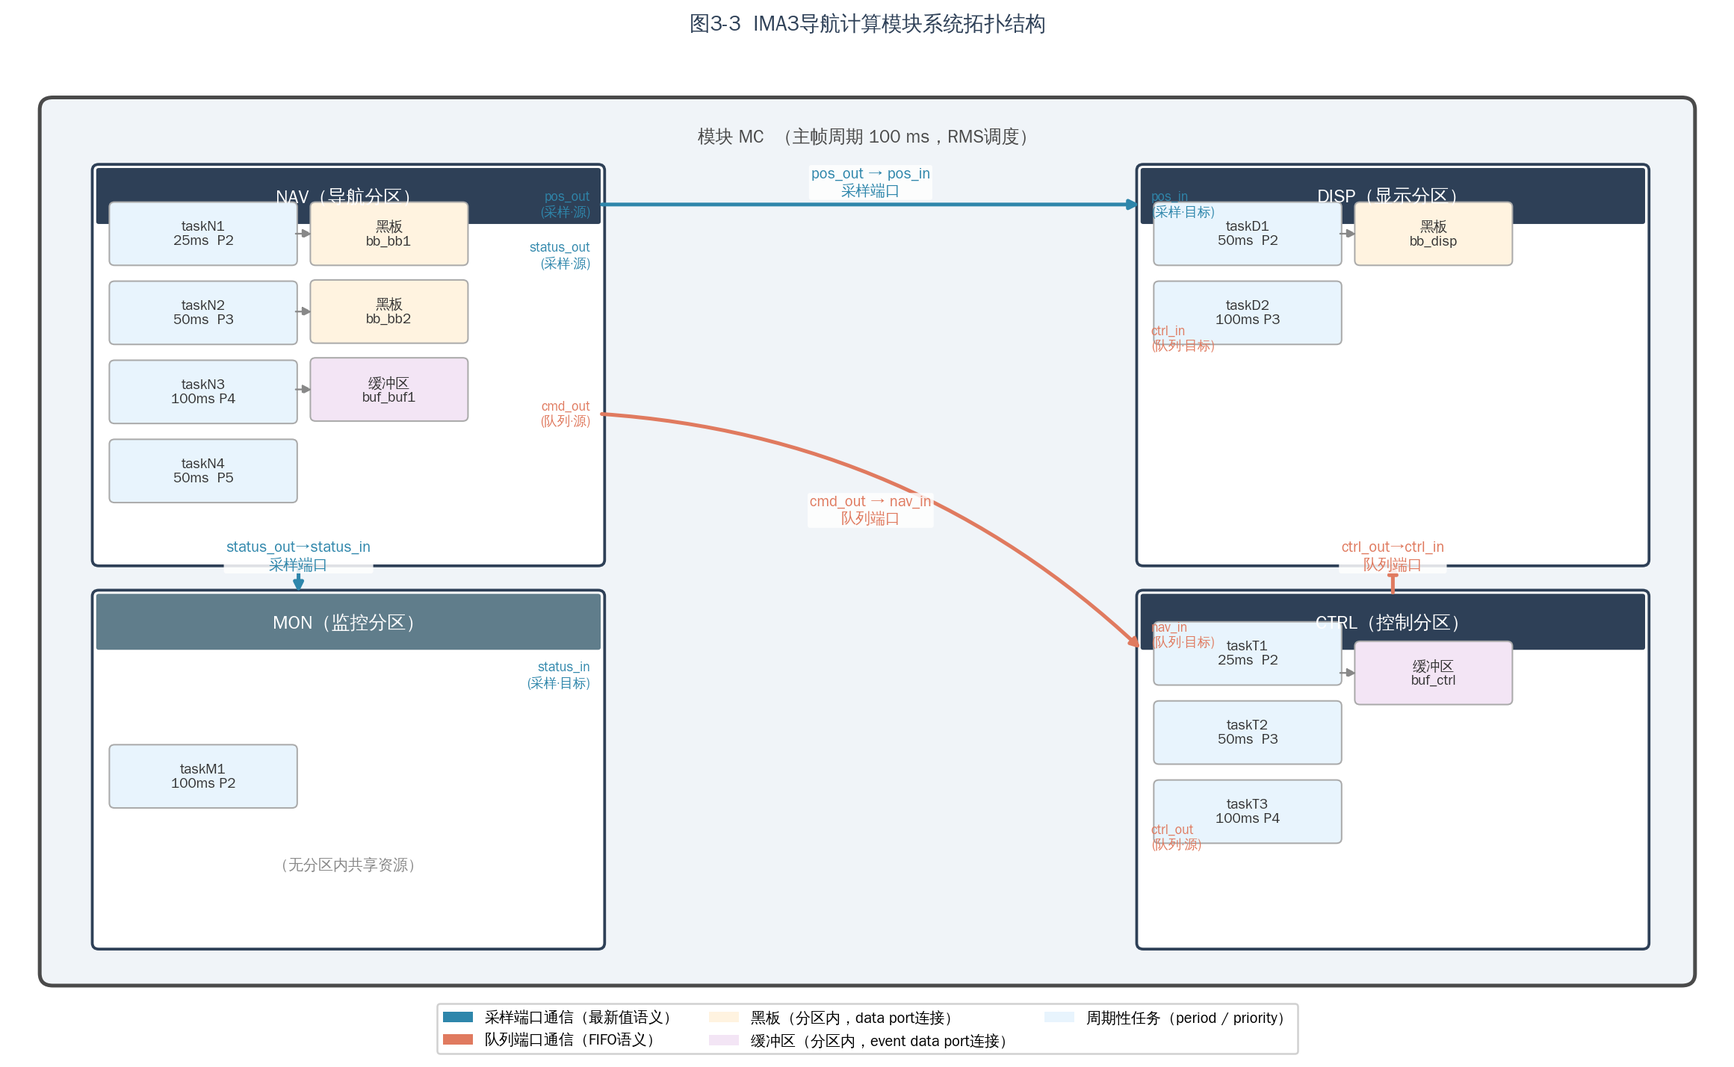
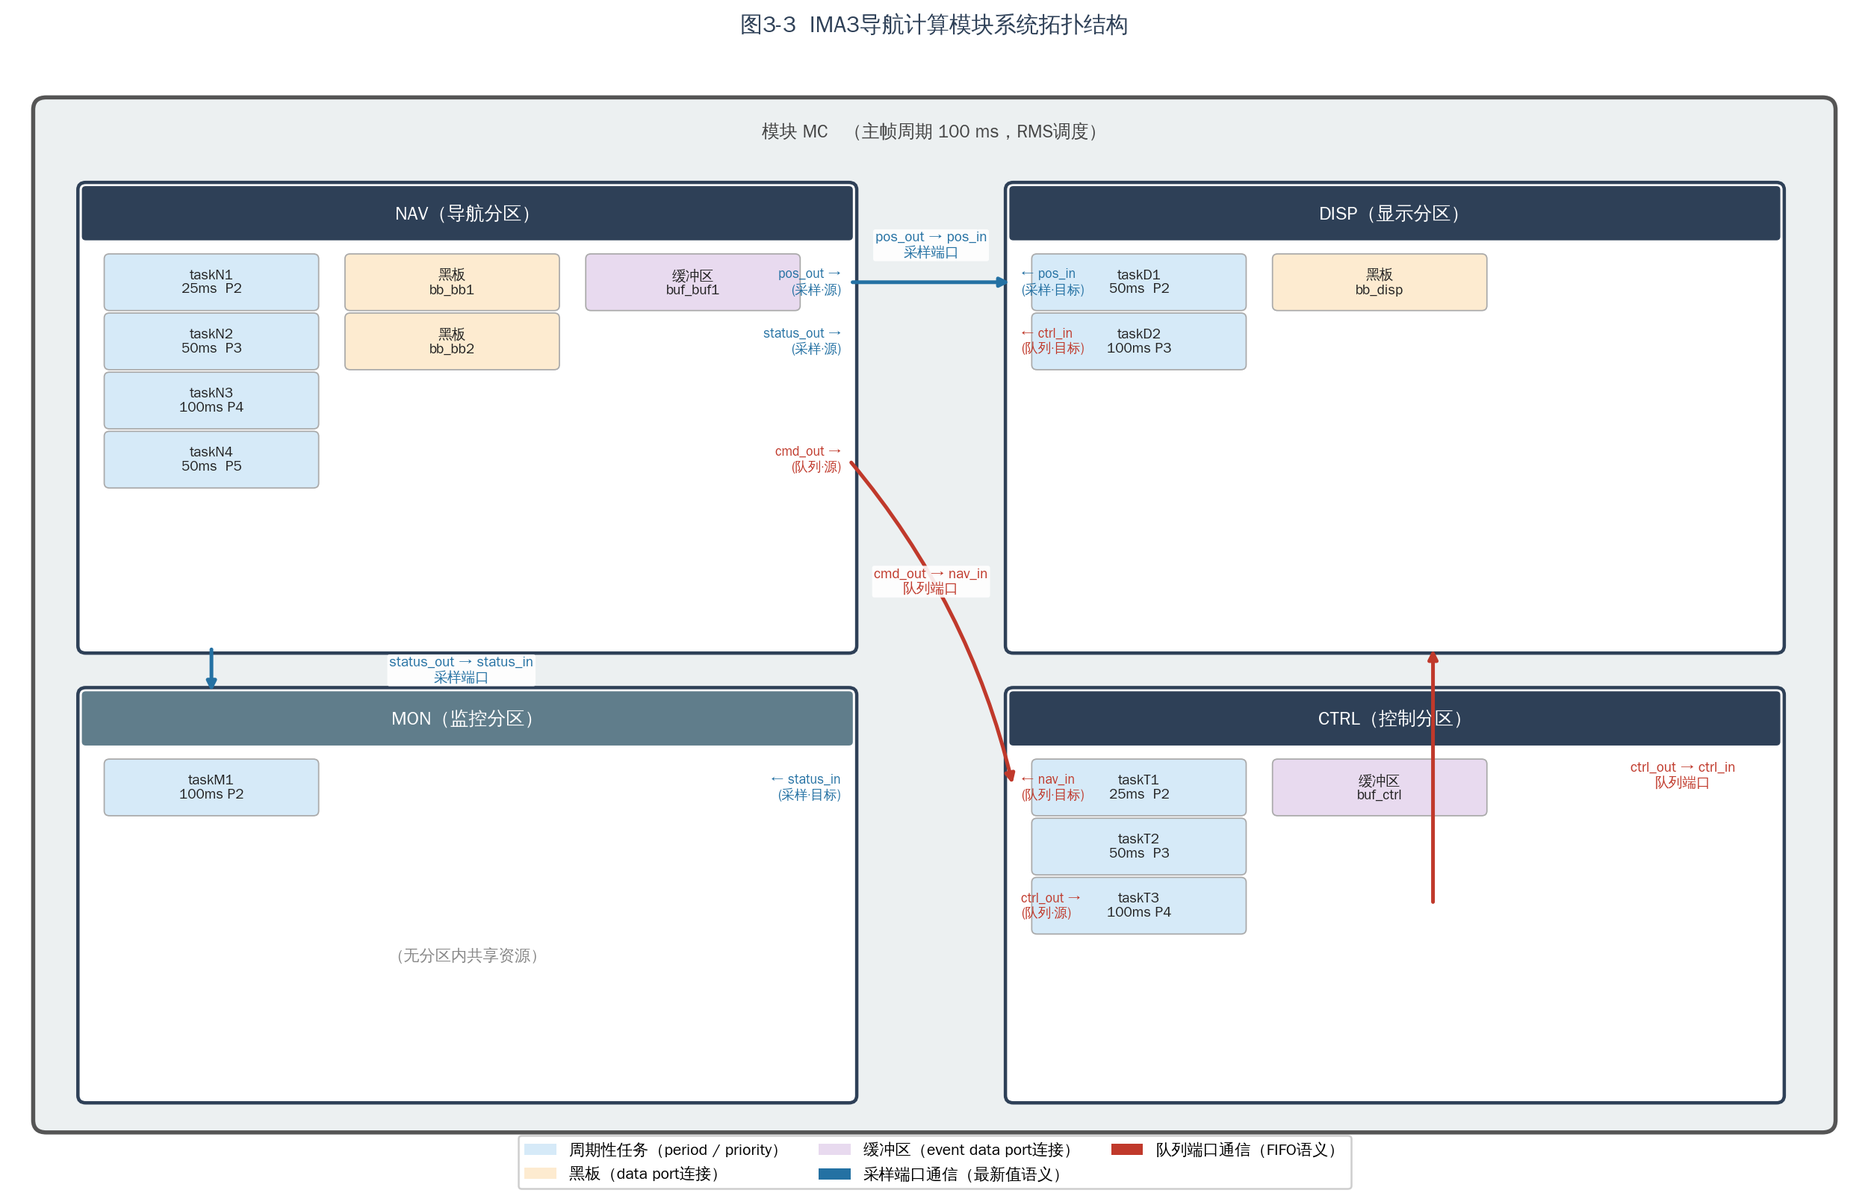
Redraw IMA3 topology diagram with cleaner relative layout
Use column-based relative positioning within each partition to eliminate
misalignment. Arrow endpoints computed from same variables as port labels.

https://claude.ai/code/session_01DA1EeooSFAa98aTz9tZPV9

diff --git a/DIMA/eval/plot_ima3_topology.py b/DIMA/eval/plot_ima3_topology.py
@@ -1,219 +1,192 @@
 #!/usr/bin/env python3
-"""
-IMA3系统拓扑结构图生成脚本
-输出: results/figures/fig3_ima3_topology.png
-"""
+"""IMA3系统拓扑结构图 — 简洁重绘版"""
 
 import os
-import matplotlib
 import matplotlib.pyplot as plt
 import matplotlib.patches as mpatches
-from matplotlib.patches import FancyBboxPatch, FancyArrowPatch
+from matplotlib.patches import FancyBboxPatch
 from matplotlib import rcParams
 
 rcParams['font.family'] = 'WenQuanYi Zen Hei'
 rcParams['axes.unicode_minus'] = False
-rcParams['figure.dpi'] = 150
 
 OUT_DIR = os.path.join(os.path.dirname(__file__), "results", "figures")
 os.makedirs(OUT_DIR, exist_ok=True)
 
-# ── 颜色 ──────────────────────────────────────────────────────────────────────
-C_MODULE  = "#F0F4F8"   # 模块背景
-C_PART    = "#FFFFFF"   # 分区背景
-C_BORDER  = "#2E4057"   # 分区边框
-C_TITLE   = "#2E4057"   # 分区标题背景
-C_TTXT    = "#FFFFFF"   # 分区标题文字
-C_TASK    = "#E8F4FD"   # 任务块背景
-C_BB      = "#FFF3E0"   # 黑板背景
-C_BUF     = "#F3E5F5"   # 缓冲区背景
-C_SAMPLE  = "#2E86AB"   # 采样箭头
-C_QUEUE   = "#E07A5F"   # 队列箭头
-C_INTRA   = "#888888"   # 分区内连接
-C_MON_BG  = "#FAFAFA"   # MON特别浅色
+C_BG     = "#F5F7FA"
+C_BORDER = "#2E4057"
+C_TITLE  = "#2E4057"
+C_TTXT   = "#FFFFFF"
+C_TASK   = "#D6EAF8"
+C_BB     = "#FDEBD0"
+C_BUF    = "#E8DAEF"
+C_SAMPLE = "#2471A3"
+C_QUEUE  = "#C0392B"
+C_MC     = "#ECF0F1"
 
-fig, ax = plt.subplots(figsize=(13, 8))
-ax.set_xlim(0, 13)
-ax.set_ylim(0, 8)
+fig, ax = plt.subplots(figsize=(14, 9))
+ax.set_xlim(0, 14)
+ax.set_ylim(0, 9)
 ax.axis('off')
+fig.patch.set_facecolor('white')
 
-# ── 辅助函数 ──────────────────────────────────────────────────────────────────
-def draw_partition(ax, x, y, w, h, title, color_title=C_TITLE, color_bg=C_PART):
-    """画分区外框+标题栏"""
-    box = FancyBboxPatch((x, y), w, h, boxstyle="round,pad=0.05",
-                         linewidth=1.5, edgecolor=C_BORDER, facecolor=color_bg, zorder=2)
-    ax.add_patch(box)
-    title_h = 0.42
-    tbox = FancyBboxPatch((x, y+h-title_h), w, title_h,
-                          boxstyle="round,pad=0.02",
-                          linewidth=0, edgecolor='none', facecolor=color_title, zorder=3)
-    ax.add_patch(tbox)
-    ax.text(x+w/2, y+h-title_h/2, title, ha='center', va='center',
-            fontsize=10, fontweight='bold', color=C_TTXT, zorder=4)
+TITLE_H = 0.38
+ITEM_H  = 0.38
+ITEM_G  = 0.10
+PAD     = 0.18
 
-def draw_resource_box(ax, x, y, w, h, label, color):
-    box = FancyBboxPatch((x, y), w, h, boxstyle="round,pad=0.04",
-                         linewidth=0.8, edgecolor='#AAAAAA', facecolor=color, zorder=3)
-    ax.add_patch(box)
-    ax.text(x+w/2, y+h/2, label, ha='center', va='center',
-            fontsize=7.5, color='#333333', zorder=4)
 
-def draw_arrow(ax, x1, y1, x2, y2, color, label, label_side='top',
-               connectionstyle="arc3,rad=0.0", lw=1.8, fs=8):
+def partition(ax, x, y, w, h, title, tc=C_TITLE):
+    ax.add_patch(FancyBboxPatch((x, y), w, h, boxstyle="round,pad=0.06",
+                                lw=1.8, edgecolor=C_BORDER, facecolor='white', zorder=2))
+    ax.add_patch(FancyBboxPatch((x, y+h-TITLE_H), w, TITLE_H,
+                                boxstyle="round,pad=0.03",
+                                lw=0, edgecolor='none', facecolor=tc, zorder=3))
+    ax.text(x+w/2, y+h-TITLE_H/2, title,
+            ha='center', va='center', fontsize=10, fontweight='bold',
+            color=C_TTXT, zorder=4)
+
+
+def items_col(ax, col_x, top_y, col_w, labels, color):
+    cy = top_y
+    for lbl in labels:
+        cy -= ITEM_H
+        ax.add_patch(FancyBboxPatch((col_x, cy), col_w, ITEM_H,
+                                    boxstyle="round,pad=0.04",
+                                    lw=0.7, edgecolor='#AAAAAA', facecolor=color, zorder=3))
+        ax.text(col_x+col_w/2, cy+ITEM_H/2, lbl,
+                ha='center', va='center', fontsize=7.5, color='#222222', zorder=4)
+        cy -= ITEM_G
+    return cy
+
+
+def arrow(ax, x1, y1, x2, y2, color, lbl, rad=0.0, lbl_offset=(0, 0.26)):
     ax.annotate("", xy=(x2, y2), xytext=(x1, y1),
-                arrowprops=dict(arrowstyle="-|>", color=color, lw=lw,
-                                connectionstyle=connectionstyle),
+                arrowprops=dict(arrowstyle="-|>", color=color, lw=2.0,
+                                connectionstyle=f"arc3,rad={rad}"),
                 zorder=5)
-    mx, my = (x1+x2)/2, (y1+y2)/2
-    offset = 0.18 if label_side == 'top' else -0.18
-    ax.text(mx, my+offset, label, ha='center', va='center',
-            fontsize=fs, color=color, fontweight='bold',
-            bbox=dict(boxstyle='round,pad=0.15', facecolor='white',
-                      edgecolor='none', alpha=0.85), zorder=6)
+    mx = (x1+x2)/2 + lbl_offset[0]
+    my = (y1+y2)/2 + lbl_offset[1]
+    ax.text(mx, my, lbl, ha='center', va='center', fontsize=7.5,
+            color=color, fontweight='bold',
+            bbox=dict(boxstyle='round,pad=0.15', fc='white', ec='none', alpha=0.9),
+            zorder=6)
 
-# ── 模块MC外框 ────────────────────────────────────────────────────────────────
-module_box = FancyBboxPatch((0.3, 0.4), 12.4, 7.1, boxstyle="round,pad=0.1",
-                            linewidth=2.0, edgecolor='#4A4A4A',
-                            facecolor=C_MODULE, zorder=1)
-ax.add_patch(module_box)
-ax.text(6.5, 7.28, "模块 MC  （主帧周期 100 ms，RMS调度）",
-        ha='center', va='center', fontsize=9.5, color='#4A4A4A',
-        style='italic')
 
-# ════════════════════════════════════════════════════════════════════════════════
-#  NAV 分区  (左上，最复杂)
-# ════════════════════════════════════════════════════════════════════════════════
-NX, NY, NW, NH = 0.65, 3.8, 3.8, 3.2
-draw_partition(ax, NX, NY, NW, NH, "NAV（导航分区）")
+# 模块 MC 外框
+ax.add_patch(FancyBboxPatch((0.25, 0.35), 13.5, 8.2, boxstyle="round,pad=0.1",
+                             lw=2.2, edgecolor='#555555', facecolor=C_MC, zorder=0))
+ax.text(7.0, 8.38, "模块 MC   （主帧周期 100 ms，RMS调度）",
+        ha='center', va='center', fontsize=9.5, color='#444444', style='italic')
 
-# 任务列
-tasks_nav = [
-    ("taskN1\n25ms  P2", 0.75, 6.5),
-    ("taskN2\n50ms  P3", 0.75, 5.85),
-    ("taskN3\n100ms P4", 0.75, 5.2),
-    ("taskN4\n50ms  P5", 0.75, 4.55),
-]
-for label, tx, ty in tasks_nav:
-    draw_resource_box(ax, NX+0.12, ty-0.24, 1.35, 0.44, label, C_TASK)
+# 分区坐标
+NX, NY, NW, NH = 0.55, 4.20, 5.80, 3.70   # NAV 左上
+DX, DY, DW, DH = 7.60, 4.20, 5.80, 3.70   # DISP 右上
+MX, MY, MW, MH = 0.55, 0.55, 5.80, 3.25   # MON 左下
+TX, TY, TW, TH = 7.60, 0.55, 5.80, 3.25   # CTRL 右下
 
-# 黑板
-draw_resource_box(ax, NX+1.65, 6.26, 1.12, 0.44, "黑板\nbb_bb1", C_BB)
-draw_resource_box(ax, NX+1.65, 5.62, 1.12, 0.44, "黑板\nbb_bb2", C_BB)
-# 缓冲区
-draw_resource_box(ax, NX+1.65, 4.98, 1.12, 0.44, "缓冲区\nbuf_buf1", C_BUF)
+COL_W = 1.55   # 每列宽度
+COL_G = 0.28   # 列间距
 
-# 分区内连接标注（细虚线）
-for yi in [6.48, 5.84]:
-    ax.annotate("", xy=(NX+1.65, yi), xytext=(NX+1.47, yi),
-                arrowprops=dict(arrowstyle="-|>", color=C_INTRA, lw=0.9,
-                                linestyle='dashed'), zorder=4)
-ax.annotate("", xy=(NX+1.65, 5.2), xytext=(NX+1.47, 5.2),
-            arrowprops=dict(arrowstyle="-|>", color=C_INTRA, lw=0.9,
-                            linestyle='dashed'), zorder=4)
+# ── NAV ──────────────────────────────────────────────────────────────────────
+partition(ax, NX, NY, NW, NH, "NAV（导航分区）")
+top_nav = NY + NH - TITLE_H - PAD
 
-# 端口标签（分区右侧）
-ax.text(NX+NW-0.06, 6.72, "pos_out\n(采样·源)", ha='right', va='center',
-        fontsize=7, color=C_SAMPLE)
-ax.text(NX+NW-0.06, 6.3, "status_out\n(采样·源)", ha='right', va='center',
-        fontsize=7, color=C_SAMPLE)
-ax.text(NX+NW-0.06, 5.0, "cmd_out\n(队列·源)", ha='right', va='center',
-        fontsize=7, color=C_QUEUE)
+c1 = NX + PAD
+c2 = c1 + COL_W + COL_G
+c3 = c2 + COL_W + COL_G
 
-# ════════════════════════════════════════════════════════════════════════════════
-#  DISP 分区  (右上)
-# ════════════════════════════════════════════════════════════════════════════════
-DX, DY, DW, DH = 8.6, 3.8, 3.8, 3.2
-draw_partition(ax, DX, DY, DW, DH, "DISP（显示分区）")
+items_col(ax, c1, top_nav, COL_W,
+          ["taskN1\n25ms  P2", "taskN2\n50ms  P3",
+           "taskN3\n100ms P4", "taskN4\n50ms  P5"], C_TASK)
+items_col(ax, c2, top_nav, COL_W, ["黑板\nbb_bb1", "黑板\nbb_bb2"], C_BB)
+items_col(ax, c3, top_nav, COL_W, ["缓冲区\nbuf_buf1"], C_BUF)
 
-draw_resource_box(ax, DX+0.12, 6.5-0.24,  1.35, 0.44, "taskD1\n50ms  P2", C_TASK)
-draw_resource_box(ax, DX+0.12, 5.85-0.24, 1.35, 0.44, "taskD2\n100ms P3", C_TASK)
+# NAV端口标签（右侧）
+y_pos_out    = top_nav - ITEM_H * 0.5
+y_status_out = top_nav - ITEM_H * 1.5 - ITEM_G
+y_cmd_out    = top_nav - ITEM_H * 3.5 - ITEM_G * 3
+ax.text(NX+NW-0.06, y_pos_out,    "pos_out →\n(采样·源)",    ha='right', va='center', fontsize=7, color=C_SAMPLE)
+ax.text(NX+NW-0.06, y_status_out, "status_out →\n(采样·源)", ha='right', va='center', fontsize=7, color=C_SAMPLE)
+ax.text(NX+NW-0.06, y_cmd_out,    "cmd_out →\n(队列·源)",    ha='right', va='center', fontsize=7, color=C_QUEUE)
 
-draw_resource_box(ax, DX+1.65, 6.26, 1.12, 0.44, "黑板\nbb_disp", C_BB)
+# ── DISP ─────────────────────────────────────────────────────────────────────
+partition(ax, DX, DY, DW, DH, "DISP（显示分区）")
+top_disp = DY + DH - TITLE_H - PAD
 
-ax.annotate("", xy=(DX+1.65, 6.48), xytext=(DX+1.47, 6.48),
-            arrowprops=dict(arrowstyle="-|>", color=C_INTRA, lw=0.9,
-                            linestyle='dashed'), zorder=4)
+d1 = DX + PAD
+d2 = d1 + COL_W + COL_G
+items_col(ax, d1, top_disp, COL_W, ["taskD1\n50ms  P2", "taskD2\n100ms P3"], C_TASK)
+items_col(ax, d2, top_disp, COL_W, ["黑板\nbb_disp"], C_BB)
 
-ax.text(DX+0.06, 6.72, "pos_in\n(采样·目标)", ha='left', va='center',
-        fontsize=7, color=C_SAMPLE)
-ax.text(DX+0.06, 5.62, "ctrl_in\n(队列·目标)", ha='left', va='center',
-        fontsize=7, color=C_QUEUE)
+y_posin  = top_disp - ITEM_H * 0.5
+y_ctrlin = top_disp - ITEM_H * 1.5 - ITEM_G
+ax.text(DX+0.06, y_posin,  "← pos_in\n(采样·目标)",  ha='left', va='center', fontsize=7, color=C_SAMPLE)
+ax.text(DX+0.06, y_ctrlin, "← ctrl_in\n(队列·目标)", ha='left', va='center', fontsize=7, color=C_QUEUE)
 
-# ════════════════════════════════════════════════════════════════════════════════
-#  CTRL 分区  (右下)
-# ════════════════════════════════════════════════════════════════════════════════
-TX, TY, TW, TH = 8.6, 0.65, 3.8, 2.85
-draw_partition(ax, TX, TY, TW, TH, "CTRL（控制分区）")
+# ── MON ──────────────────────────────────────────────────────────────────────
+partition(ax, MX, MY, MW, MH, "MON（监控分区）", tc='#607D8B')
+top_mon = MY + MH - TITLE_H - PAD
 
-draw_resource_box(ax, TX+0.12, 3.05-0.24, 1.35, 0.44, "taskT1\n25ms  P2", C_TASK)
-draw_resource_box(ax, TX+0.12, 2.4-0.24,  1.35, 0.44, "taskT2\n50ms  P3", C_TASK)
-draw_resource_box(ax, TX+0.12, 1.75-0.24, 1.35, 0.44, "taskT3\n100ms P4", C_TASK)
+items_col(ax, MX + PAD, top_mon, COL_W, ["taskM1\n100ms P2"], C_TASK)
+ax.text(MX+MW/2, MY+MH*0.35, "（无分区内共享资源）",
+        ha='center', va='center', fontsize=8.5, color='#888888', style='italic')
+ax.text(MX+MW-0.06, top_mon - ITEM_H*0.5, "← status_in\n(采样·目标)",
+        ha='right', va='center', fontsize=7, color=C_SAMPLE)
 
-draw_resource_box(ax, TX+1.65, 2.65, 1.12, 0.44, "缓冲区\nbuf_ctrl", C_BUF)
+# ── CTRL ─────────────────────────────────────────────────────────────────────
+partition(ax, TX, TY, TW, TH, "CTRL（控制分区）")
+top_ctrl = TY + TH - TITLE_H - PAD
 
-ax.annotate("", xy=(TX+1.65, 2.87), xytext=(TX+1.47, 2.87),
-            arrowprops=dict(arrowstyle="-|>", color=C_INTRA, lw=0.9,
-                            linestyle='dashed'), zorder=4)
+t1 = TX + PAD
+t2 = t1 + COL_W + COL_G
+items_col(ax, t1, top_ctrl, COL_W,
+          ["taskT1\n25ms  P2", "taskT2\n50ms  P3", "taskT3\n100ms P4"], C_TASK)
+items_col(ax, t2, top_ctrl, COL_W, ["缓冲区\nbuf_ctrl"], C_BUF)
 
-ax.text(TX+0.06, 3.18, "nav_in\n(队列·目标)", ha='left', va='center',
-        fontsize=7, color=C_QUEUE)
-ax.text(TX+0.06, 1.52, "ctrl_out\n(队列·源)", ha='left', va='center',
-        fontsize=7, color=C_QUEUE)
+y_navin   = top_ctrl - ITEM_H * 0.5
+y_ctrlout = top_ctrl - ITEM_H * 2.5 - ITEM_G * 2
+ax.text(TX+0.06, y_navin,   "← nav_in\n(队列·目标)",  ha='left', va='center', fontsize=7, color=C_QUEUE)
+ax.text(TX+0.06, y_ctrlout, "ctrl_out →\n(队列·源)",   ha='left', va='center', fontsize=7, color=C_QUEUE)
 
-# ════════════════════════════════════════════════════════════════════════════════
-#  MON 分区  (左下，最简)
-# ════════════════════════════════════════════════════════════════════════════════
-MX, MY, MW, MH = 0.65, 0.65, 3.8, 2.85
-draw_partition(ax, MX, MY, MW, MH, "MON（监控分区）", color_title='#607D8B')
+# ══════════════════════════════════════════════════════════════════════════════
+#  分区间通信箭头（坐标与端口标签对齐）
+# ══════════════════════════════════════════════════════════════════════════════
 
-draw_resource_box(ax, MX+0.12, 1.8, 1.35, 0.44, "taskM1\n100ms P2", C_TASK)
-ax.text(MX+MW/2, 1.3, "（无分区内共享资源）", ha='center', va='center',
-        fontsize=8, color='#888888', style='italic')
+# NAV → DISP  pos_out → pos_in  水平
+arrow(ax, NX+NW, y_pos_out, DX, y_posin,
+      C_SAMPLE, "pos_out → pos_in\n采样端口", lbl_offset=(0, 0.30))
 
-ax.text(MX+MW-0.06, 2.85, "status_in\n(采样·目标)", ha='right', va='center',
-        fontsize=7, color=C_SAMPLE)
+# NAV → MON  status_out → status_in  垂直（沿左列中线）
+x_vert_l = NX + PAD + COL_W * 0.5
+arrow(ax, x_vert_l, NY, x_vert_l, MY+MH,
+      C_SAMPLE, "status_out → status_in\n采样端口", lbl_offset=(1.9, 0))
 
-# ════════════════════════════════════════════════════════════════════════════════
-#  分区间通信箭头
-# ════════════════════════════════════════════════════════════════════════════════
+# NAV → CTRL  cmd_out → nav_in  斜线（右侧出→右上角入）
+arrow(ax, NX+NW, y_cmd_out, TX, y_navin,
+      C_QUEUE, "cmd_out → nav_in\n队列端口", rad=-0.12, lbl_offset=(0, 0.34))
 
-# NAV → DISP  采样（位置数据）pos_out → pos_in，水平
-draw_arrow(ax, NX+NW, 6.72, DX, 6.72,
-           color=C_SAMPLE, label="pos_out → pos_in\n采样端口",
-           label_side='top', lw=2.0, fs=8)
+# CTRL → DISP  ctrl_out → ctrl_in  垂直（右列中线）
+x_vert_r = TX + TW * 0.55
+arrow(ax, x_vert_r, y_ctrlout, x_vert_r, DY,
+      C_QUEUE, "ctrl_out → ctrl_in\n队列端口", lbl_offset=(1.9, 0))
 
-# NAV → MON  采样（状态数据）垂直向下
-draw_arrow(ax, NX+NW*0.4, NY, MX+MW*0.4, MY+MH,
-           color=C_SAMPLE, label="status_out→status_in\n采样端口",
-           label_side='top',
-           connectionstyle="arc3,rad=0.0", lw=2.0, fs=8)
-
-# NAV → CTRL  队列（导航指令），斜线
-draw_arrow(ax, NX+NW, 5.0, TX, 3.05,
-           color=C_QUEUE, label="cmd_out → nav_in\n队列端口",
-           label_side='top',
-           connectionstyle="arc3,rad=-0.18", lw=2.0, fs=8)
-
-# CTRL → DISP  队列（显示控制），垂直
-draw_arrow(ax, TX+TW*0.5, TY+TH, DX+DW*0.5, DY,
-           color=C_QUEUE, label="ctrl_out→ctrl_in\n队列端口",
-           label_side='top',
-           connectionstyle="arc3,rad=0.0", lw=2.0, fs=8)
-
-# ── 图例 ──────────────────────────────────────────────────────────────────────
+# ══════════════════════════════════════════════════════════════════════════════
+#  图例
+# ══════════════════════════════════════════════════════════════════════════════
 legend_items = [
+    mpatches.Patch(facecolor=C_TASK,   label="周期性任务（period / priority）"),
+    mpatches.Patch(facecolor=C_BB,     label="黑板（data port连接）"),
+    mpatches.Patch(facecolor=C_BUF,    label="缓冲区（event data port连接）"),
     mpatches.Patch(facecolor=C_SAMPLE, label="采样端口通信（最新值语义）"),
     mpatches.Patch(facecolor=C_QUEUE,  label="队列端口通信（FIFO语义）"),
-    mpatches.Patch(facecolor=C_BB,     label="黑板（分区内，data port连接）"),
-    mpatches.Patch(facecolor=C_BUF,    label="缓冲区（分区内，event data port连接）"),
-    mpatches.Patch(facecolor=C_TASK,   label="周期性任务（period / priority）"),
 ]
 ax.legend(handles=legend_items, loc='lower center',
-          bbox_to_anchor=(0.5, -0.04), ncol=3,
-          fontsize=8, framealpha=0.9, edgecolor='#CCCCCC')
+          bbox_to_anchor=(0.5, -0.03), ncol=3,
+          fontsize=8.5, framealpha=0.95, edgecolor='#CCCCCC')
 
-plt.title("图3-3  IMA3导航计算模块系统拓扑结构", fontsize=11,
-          fontweight='bold', pad=10, color='#2E4057')
+plt.title("图3-3  IMA3导航计算模块系统拓扑结构",
+          fontsize=12, fontweight='bold', pad=12, color='#2E4057')
 plt.tight_layout()
 
 out_path = os.path.join(OUT_DIR, "fig3_ima3_topology.png")
